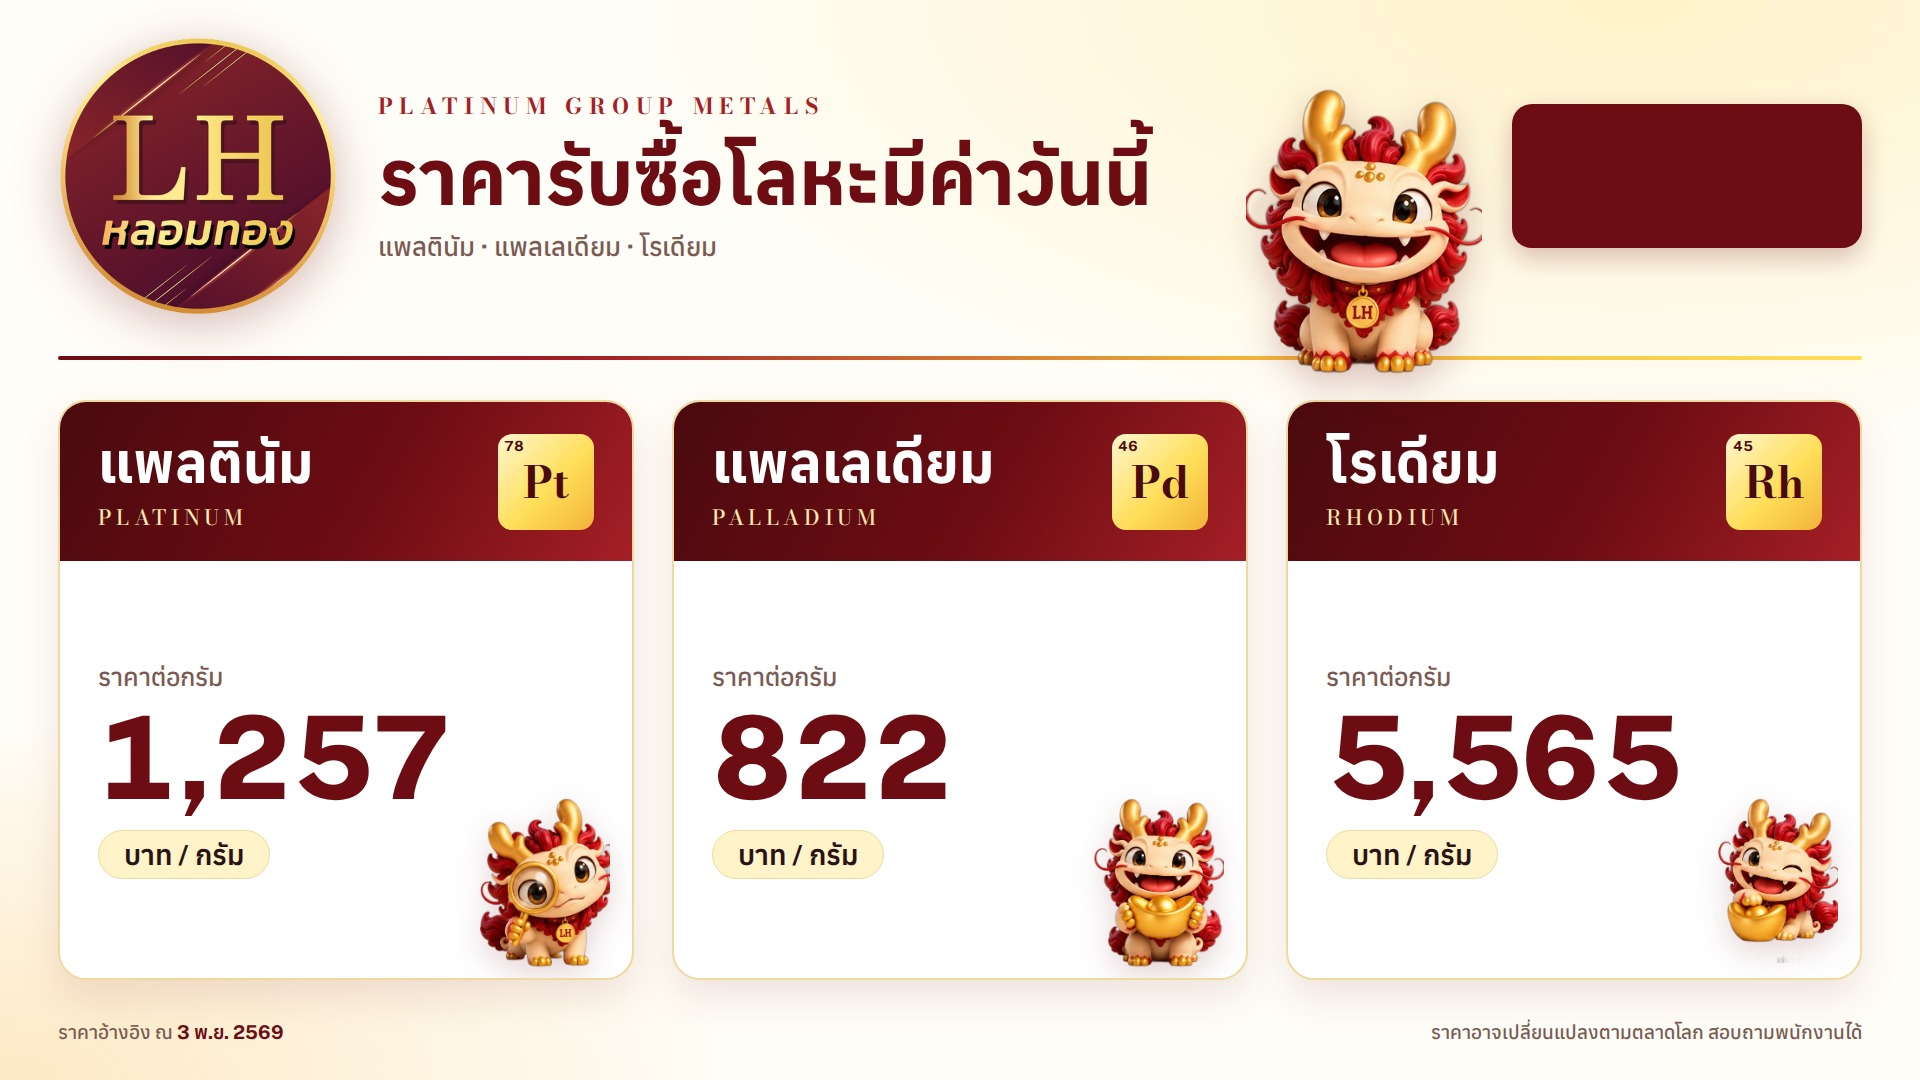
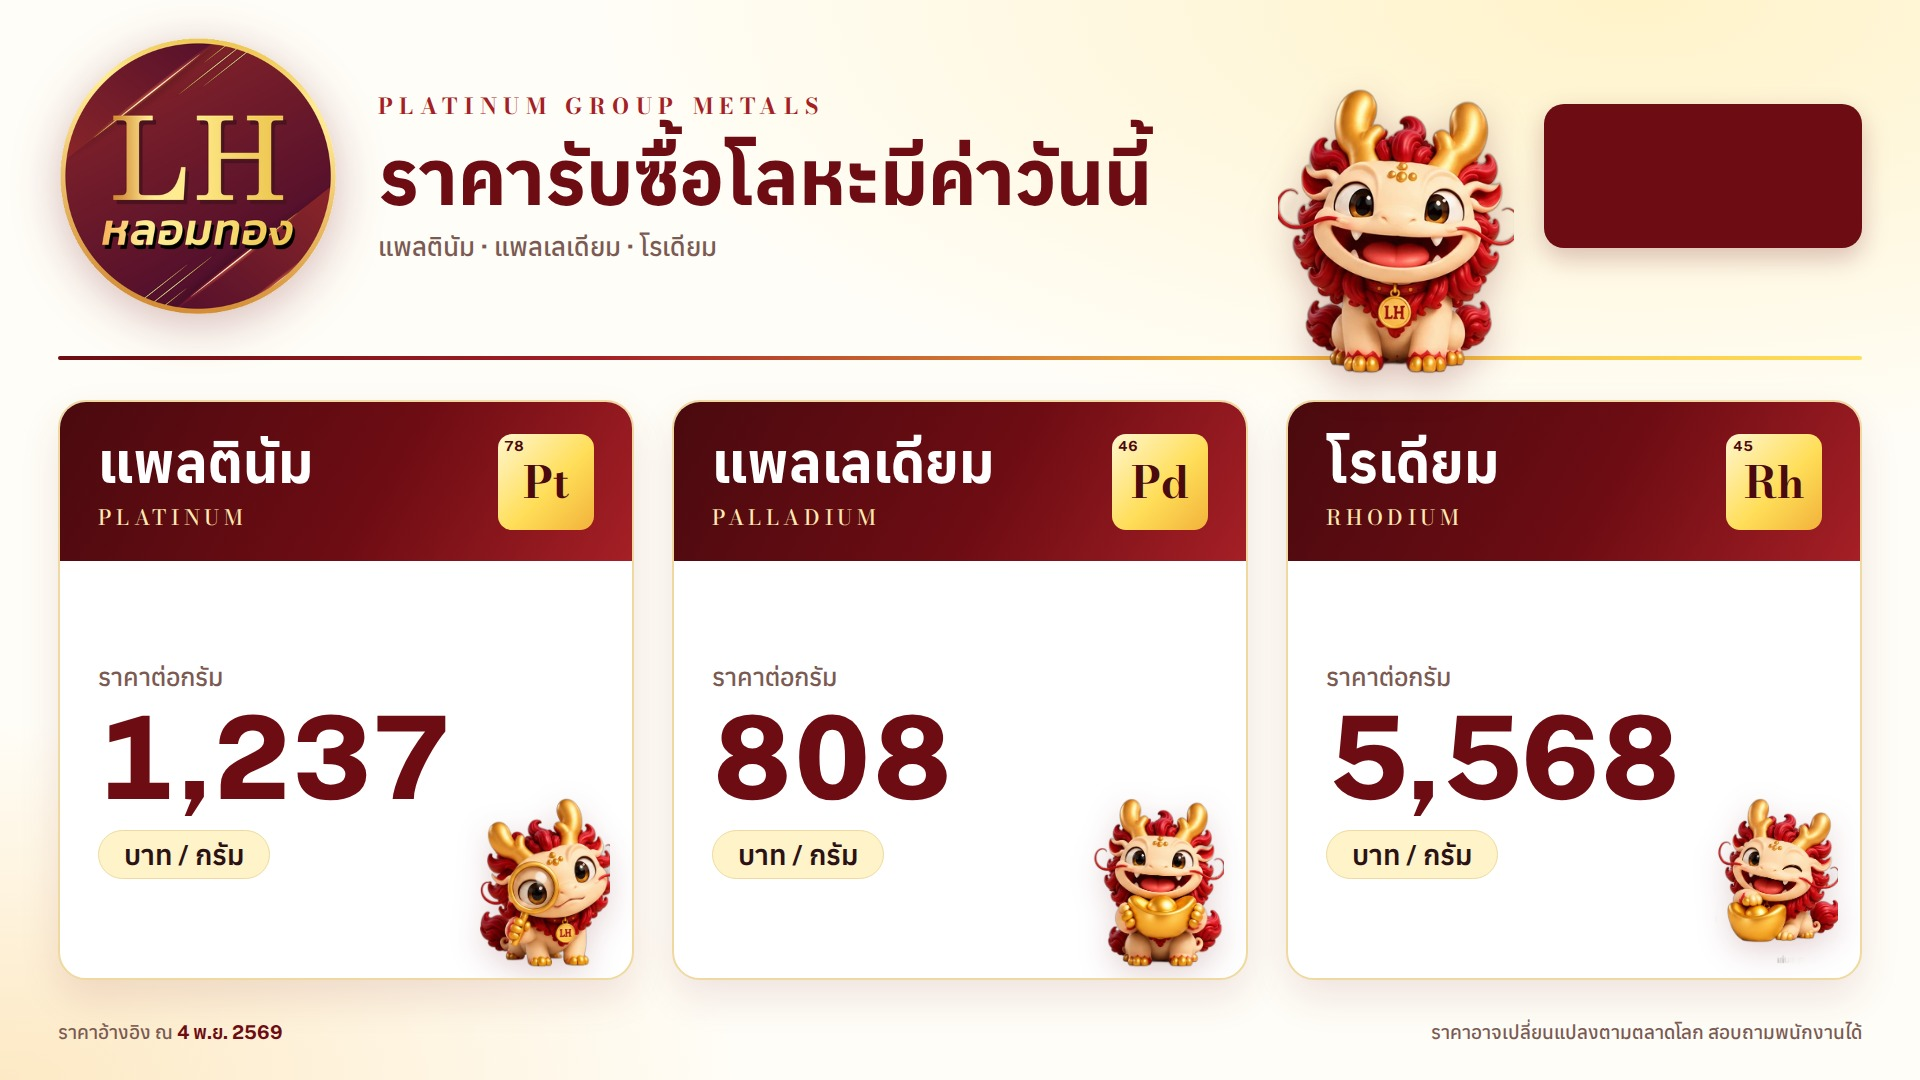
Update prices 2026-11-04

diff --git a/board.html b/board.html
@@ -219,14 +219,14 @@ html{-webkit-text-size-adjust:100%;text-size-adjust:100%}
      ราคาแต่ละเกรด = ราคาเงินหลังหัก × เปอร์เซ็นต์ (99.99% ใช้ราคาเต็ม)
    showSilver = เปิด/ปิดหน้าราคาเงิน, rotateSeconds = เปลี่ยนหน้าทุกกี่วินาที */
 const CONFIG = {
-  asOf: "3 พ.ย. 2569",
-  fx: 33.74,
+  asOf: "4 พ.ย. 2569",
+  fx: 33.76,
   discount: 0.20,
   rotateSeconds: 15,
   showSilver: true,
   metals: [
-    { th:"แพลตินัม",  en:"Platinum",  sym:"Pt", z:78, usdPerGram:46.5864 },
-    { th:"แพลเลเดียม", en:"Palladium", sym:"Pd", z:46, usdPerGram:30.4467 },
+    { th:"แพลตินัม",  en:"Platinum",  sym:"Pt", z:78, usdPerGram:45.8148 },
+    { th:"แพลเลเดียม", en:"Palladium", sym:"Pd", z:46, usdPerGram:29.9002 },
     { th:"โรเดียม",    en:"Rhodium",   sym:"Rh", z:45, usdPerGram:274.89, discount:0.40 }
   ],
   silver: { pricePerKg: 55000, grades: [95, 92.5, 90, 70, 50, 30] }
